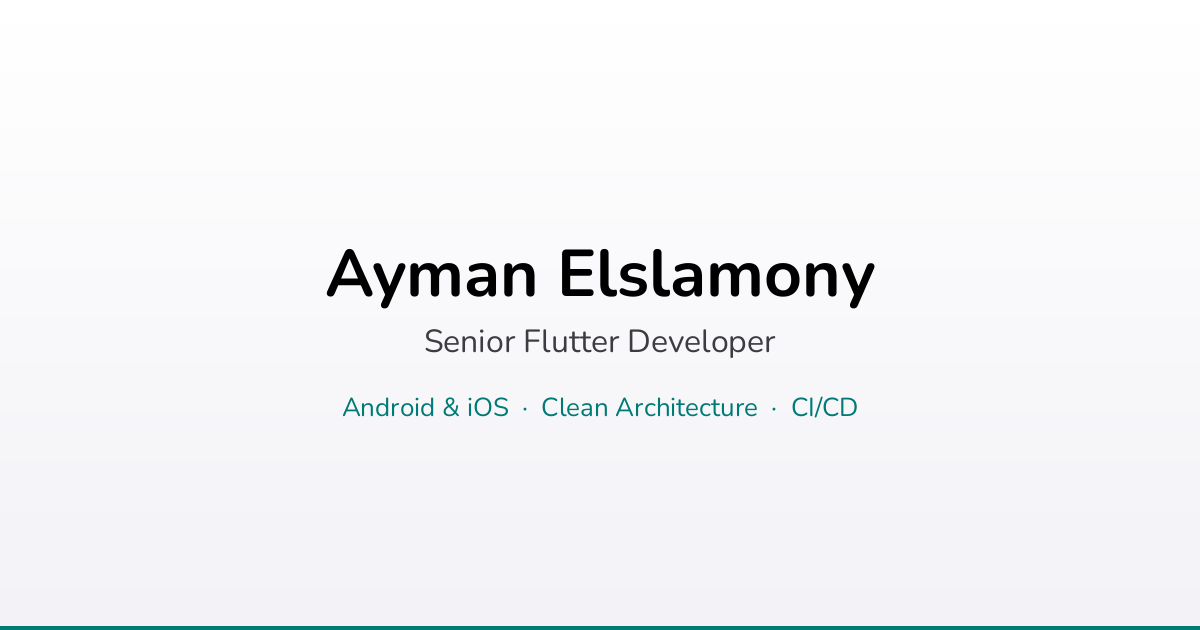
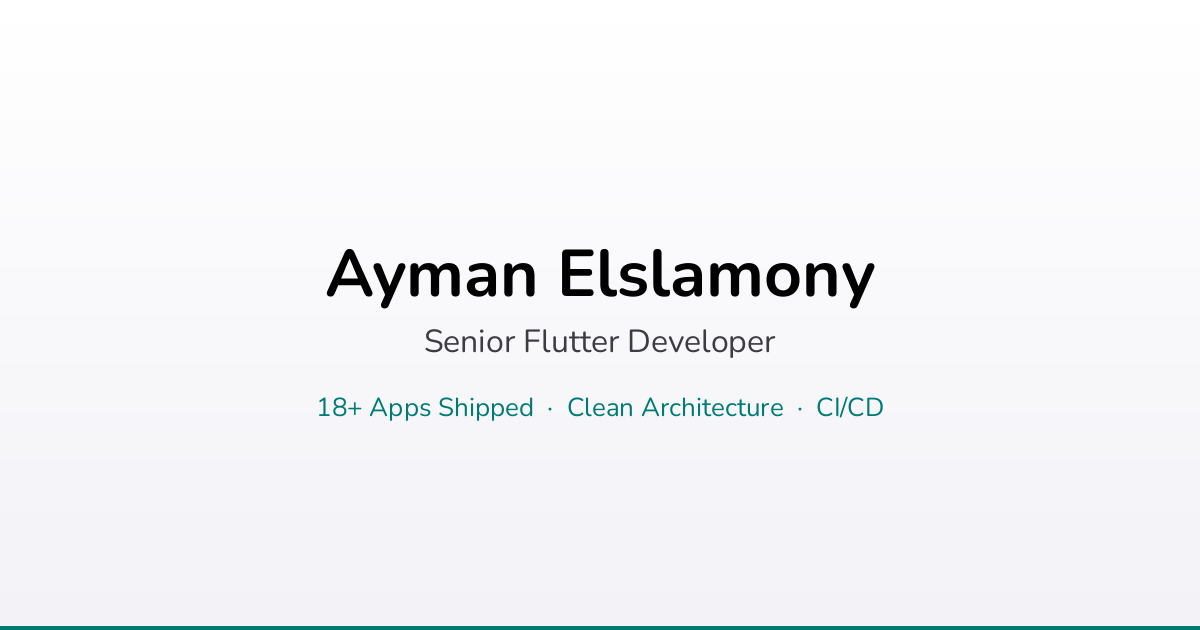
Link preview image: the current subtitle, 18+ Apps Shipped

Changed region(s): [[0.2467, 0.6333, 0.74, 0.6635]]

diff --git a/tools/make_banners.py b/tools/make_banners.py
@@ -100,6 +100,6 @@ if __name__ == "__main__":
         OG,
         "Ayman Elslamony",
         "Senior Flutter Developer",
-        "Android & iOS  ·  Clean Architecture  ·  CI/CD",
+        "18+ Apps Shipped  ·  Clean Architecture  ·  CI/CD",
         (66, 32, 26),
     )
